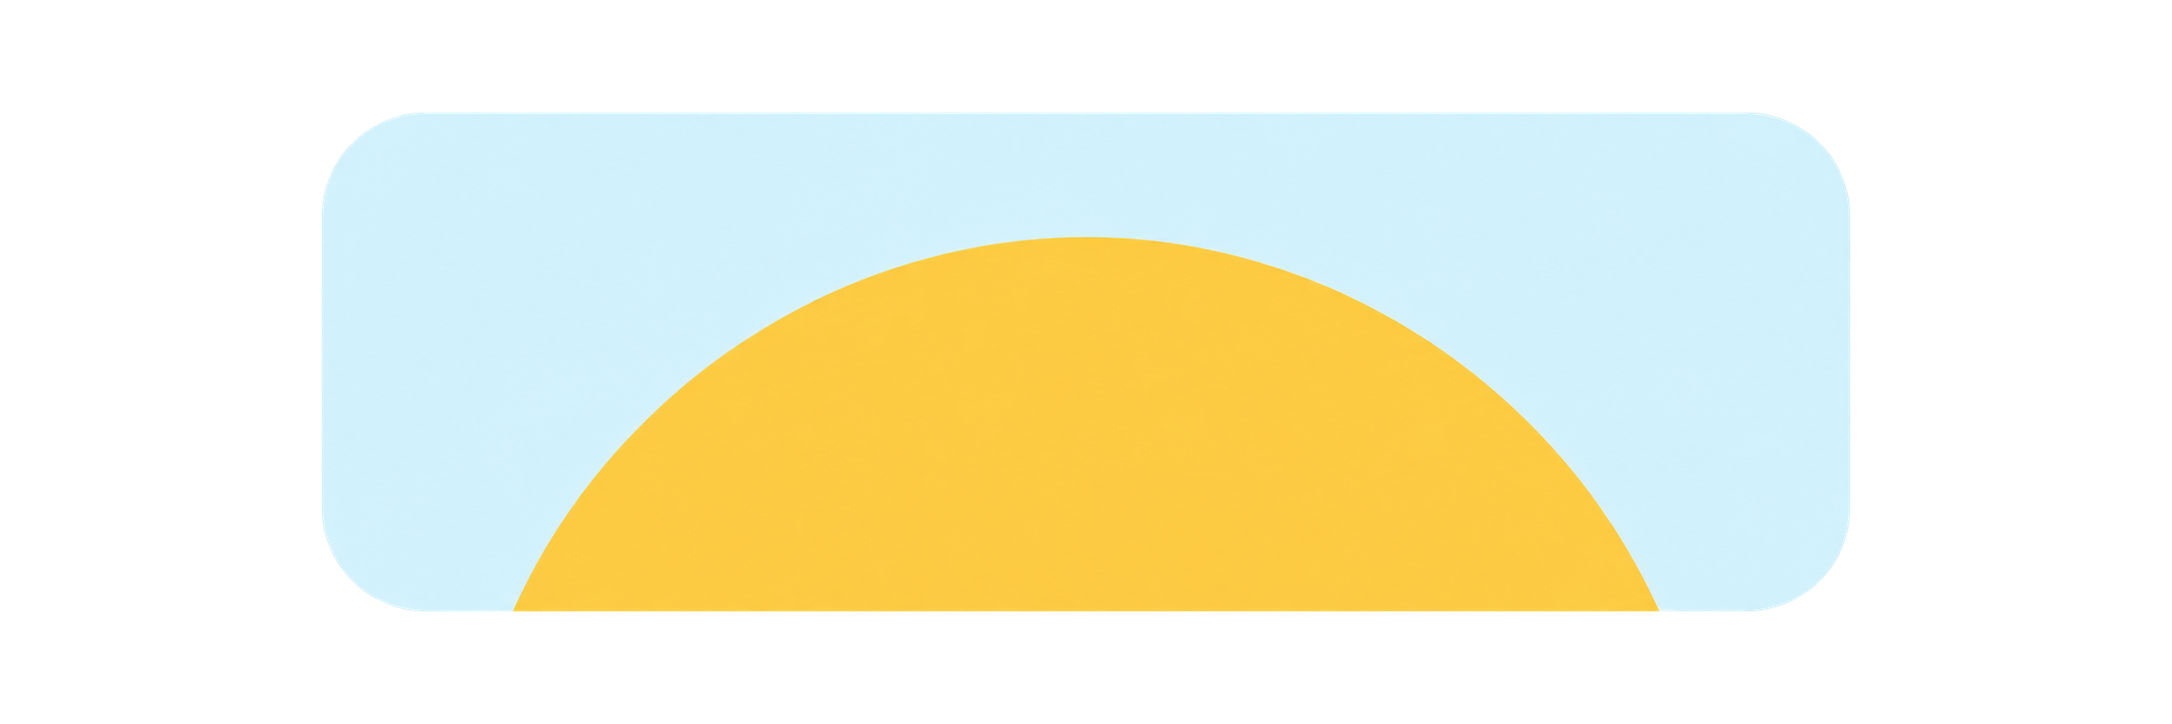
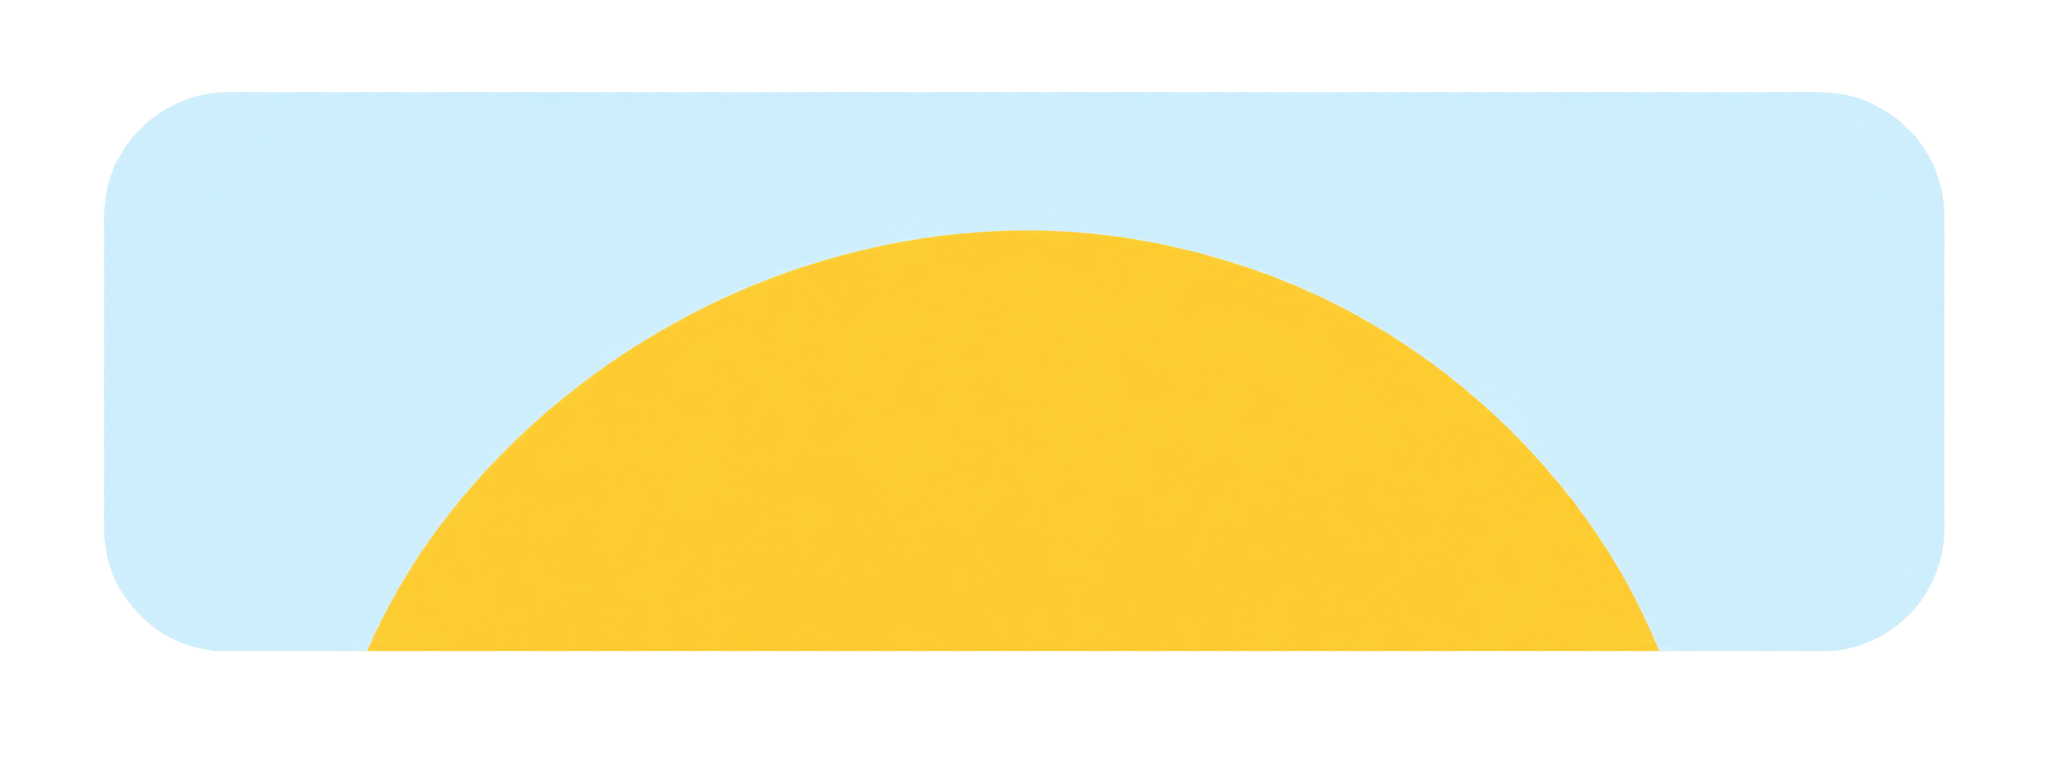
fix(make-emoji-drag): align drop zones and normalize artwork scale
Replace emoji strip artwork with consistent-size sources, align
logical slot centers to dashed panel thirds, and scale bottom
artwork visually to match the average emoji diameter.

Changed region(s): [[0.0312, 0.1215, 0.9688, 0.8508]]

diff --git a/Assets/App/Games/MakeAnEmojiDrag/MakeAnEmojiDragGame.cs b/Assets/App/Games/MakeAnEmojiDrag/MakeAnEmojiDragGame.cs
@@ -21,10 +21,11 @@ namespace Lbs.MiniGames.Games.MakeAnEmojiDrag
         private static readonly Color Success = new(0.09f, 0.48f, 0.29f);
         private static readonly Vector2 DestinationPanelCenter = new(575, 540);
         private static readonly Vector2 DestinationPanelSize = new(620, 660);
-        private static readonly Vector2[] SlotCenters = { new(575, 285), new(575, 540), new(575, 795) };
+        private static readonly Vector2[] SlotCenters = { new(575, 320), new(575, 540), new(575, 760) };
         private static readonly Vector2 SlotSize = new(550, 180);
         private static readonly Vector2[] PieceCenters = { new(1275, 285), new(1275, 540), new(1275, 795) };
         private static readonly Vector2 PieceSize = new(650, 190);
+        private const float BottomArtworkVisualScale = 0.8755f;
 
         [SerializeField] private Sprite topArtwork, middleArtwork, bottomArtwork;
         [SerializeField] private Sprite exitIcon, hongNeutral, hong1, hong2, hong3, finalStar;
@@ -119,6 +120,7 @@ namespace Lbs.MiniGames.Games.MakeAnEmojiDrag
             image.sprite = artwork;
             image.preserveAspect = true;
             UiFactory.Stretch(image.rectTransform, 0);
+            if (id == MakeAnEmojiDragRule.BottomPiece) image.rectTransform.localScale = Vector3.one * BottomArtworkVisualScale;
             DragDropCard card = surface.gameObject.AddComponent<DragDropCard>();
             card.Setup(id, group, surface.rectTransform.anchoredPosition);
             card.DragStarted += HandleDragStarted;

diff --git a/Assets/App/Games/MakeAnEmojiDrag/MakeAnEmojiDragDashedFrame.cs b/Assets/App/Games/MakeAnEmojiDrag/MakeAnEmojiDragDashedFrame.cs
@@ -33,7 +33,7 @@ namespace Lbs.MiniGames.Games.MakeAnEmojiDrag
             AddRoundedFill(vertexHelper, rect, Mathf.Min(CornerRadius, rect.width * .5f, rect.height * .5f));
             AddDashedRoundedOutline(vertexHelper, rect);
 
-            float dividerOffset = rect.height * (127.5f / 660f);
+            float dividerOffset = rect.height / 6f;
             float inset = BorderThickness * .5f;
             AddDashedLine(vertexHelper, new Vector2(rect.xMin + inset, dividerOffset), new Vector2(rect.xMax - inset, dividerOffset));
             AddDashedLine(vertexHelper, new Vector2(rect.xMin + inset, -dividerOffset), new Vector2(rect.xMax - inset, -dividerOffset));
